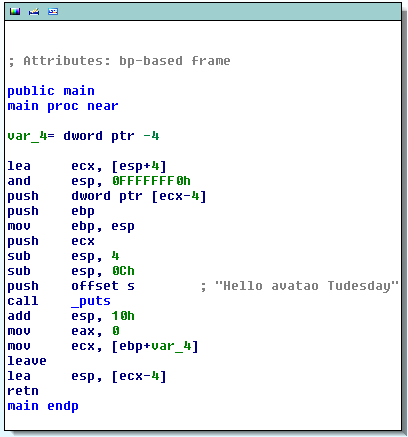
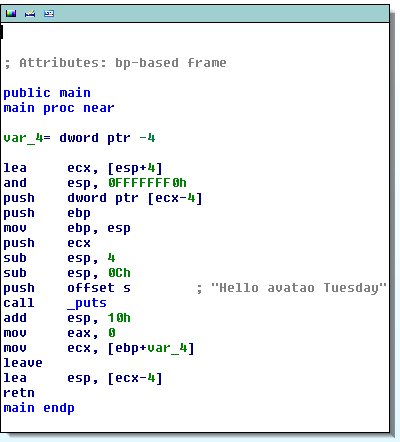
Fix typo in Tuesday

diff --git a/_drafts/2016-9-6-Reverse-engineering-tutorial-and-challenge.md b/_drafts/2016-9-6-Reverse-engineering-tutorial-and-challenge.md
@@ -20,7 +20,7 @@ So here is your first source code:
 
 int main()
 {
-    printf("Hello avatao Tudesday\n");
+    printf("Hello avatao Tuesday\n");
     return 0;
 }
 
